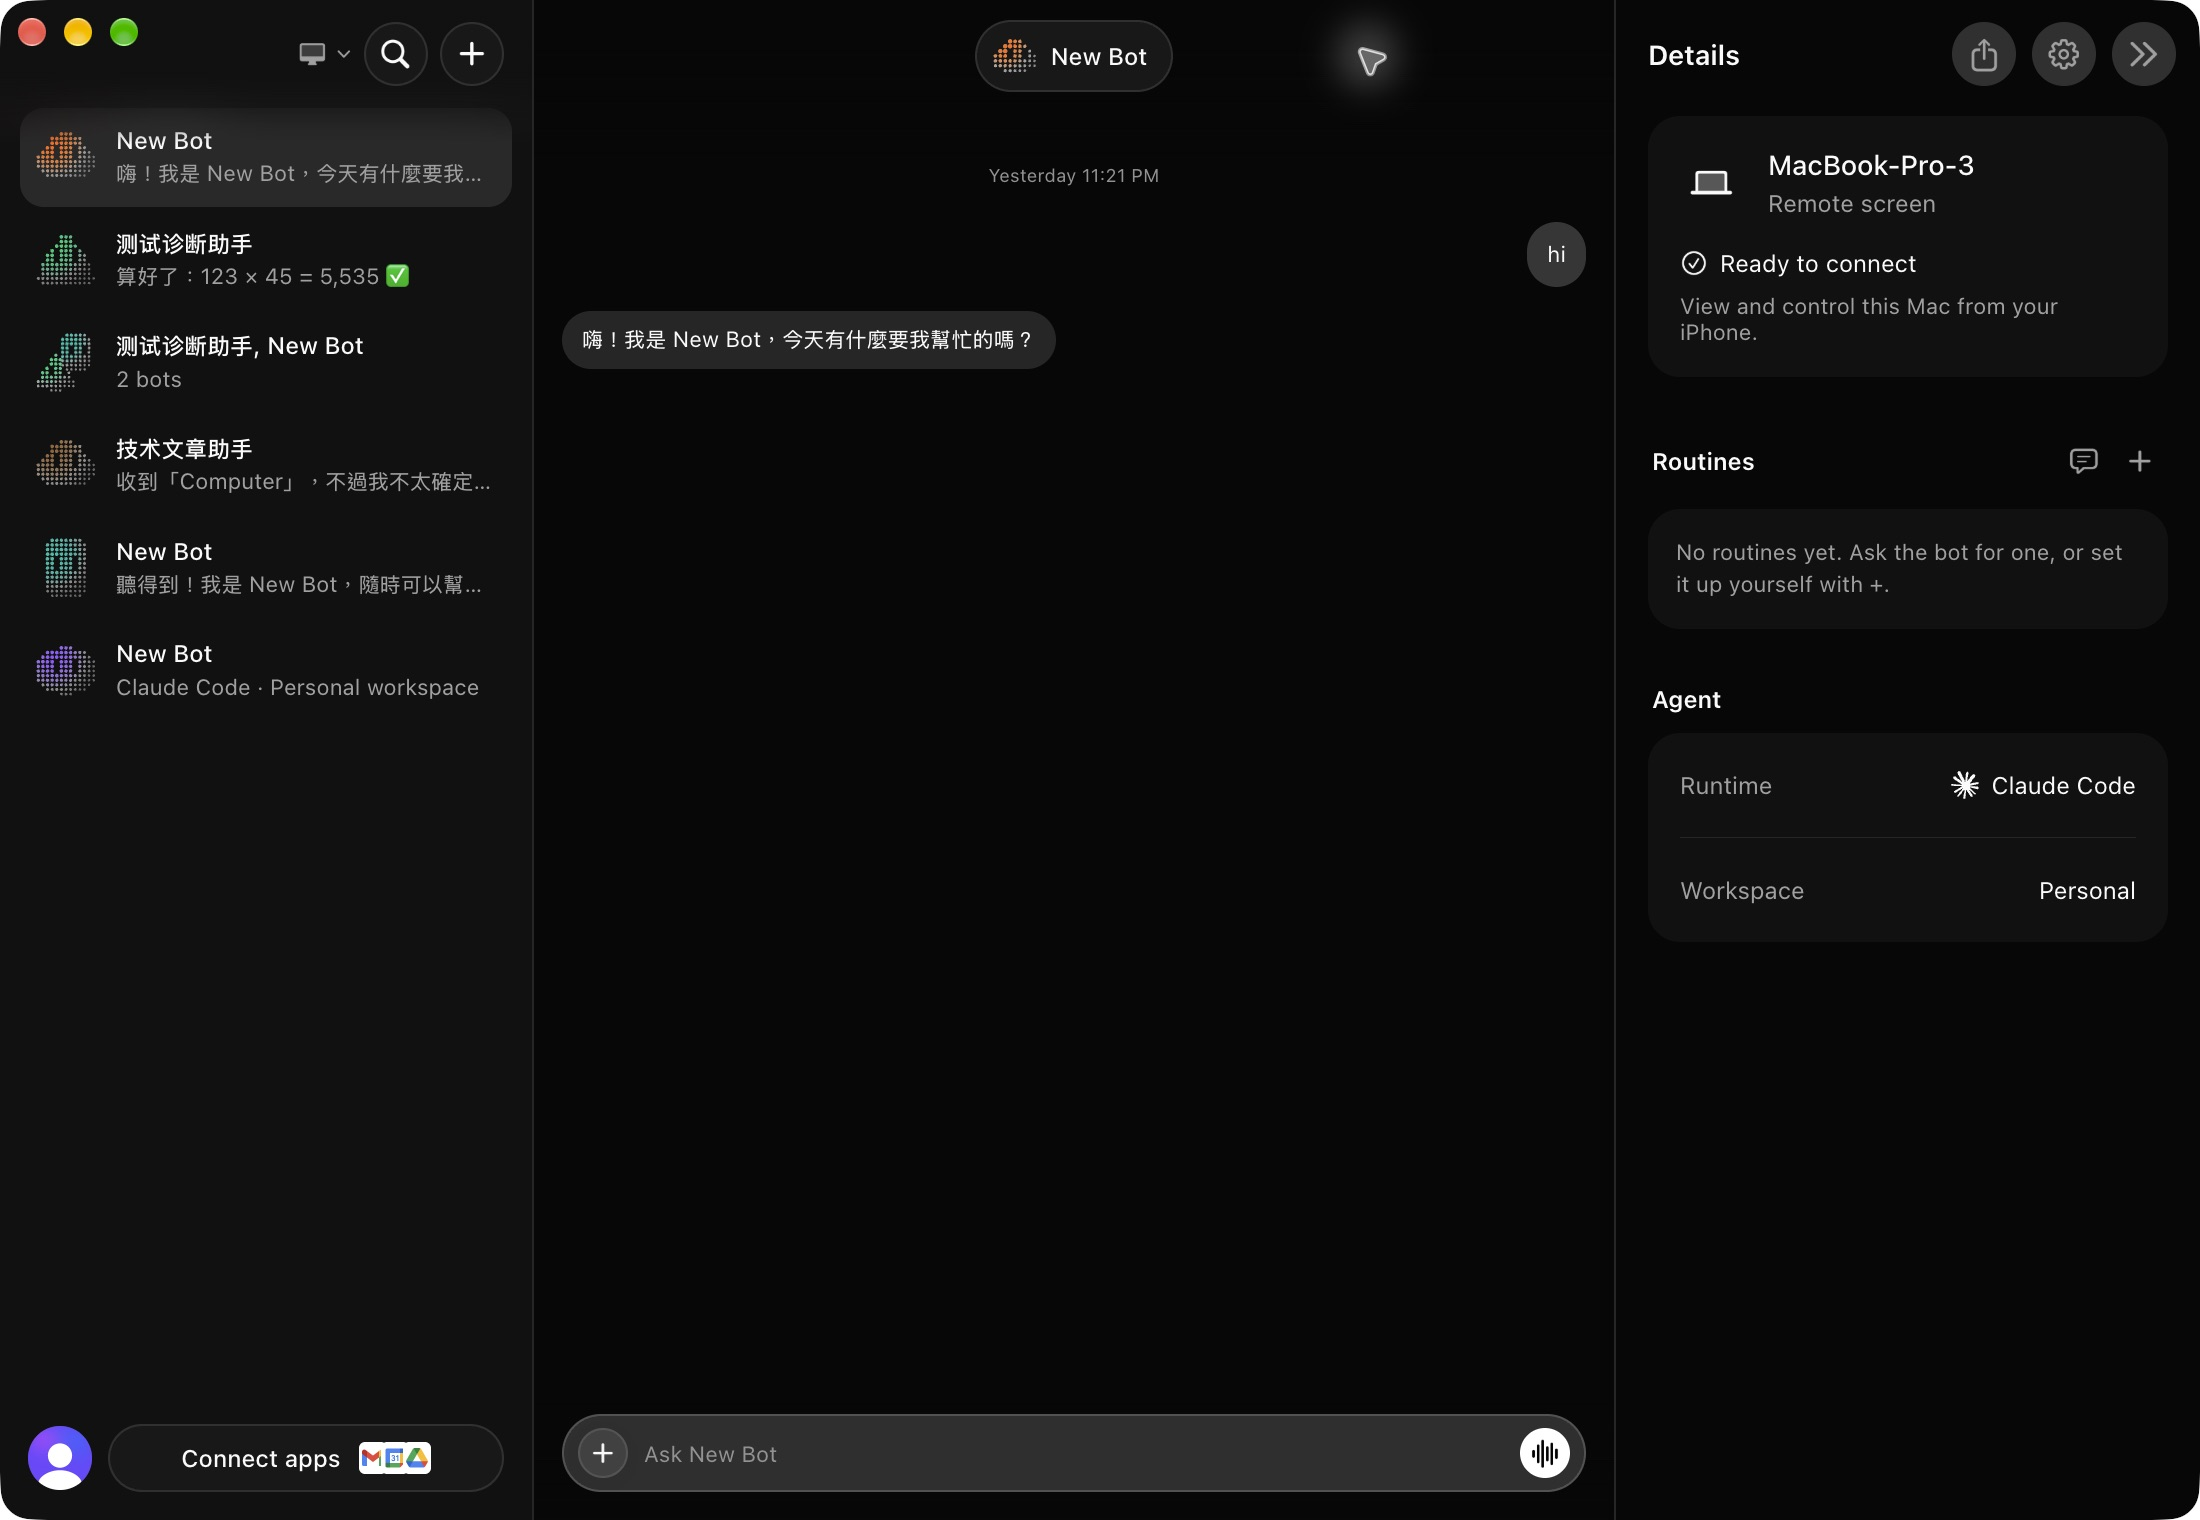
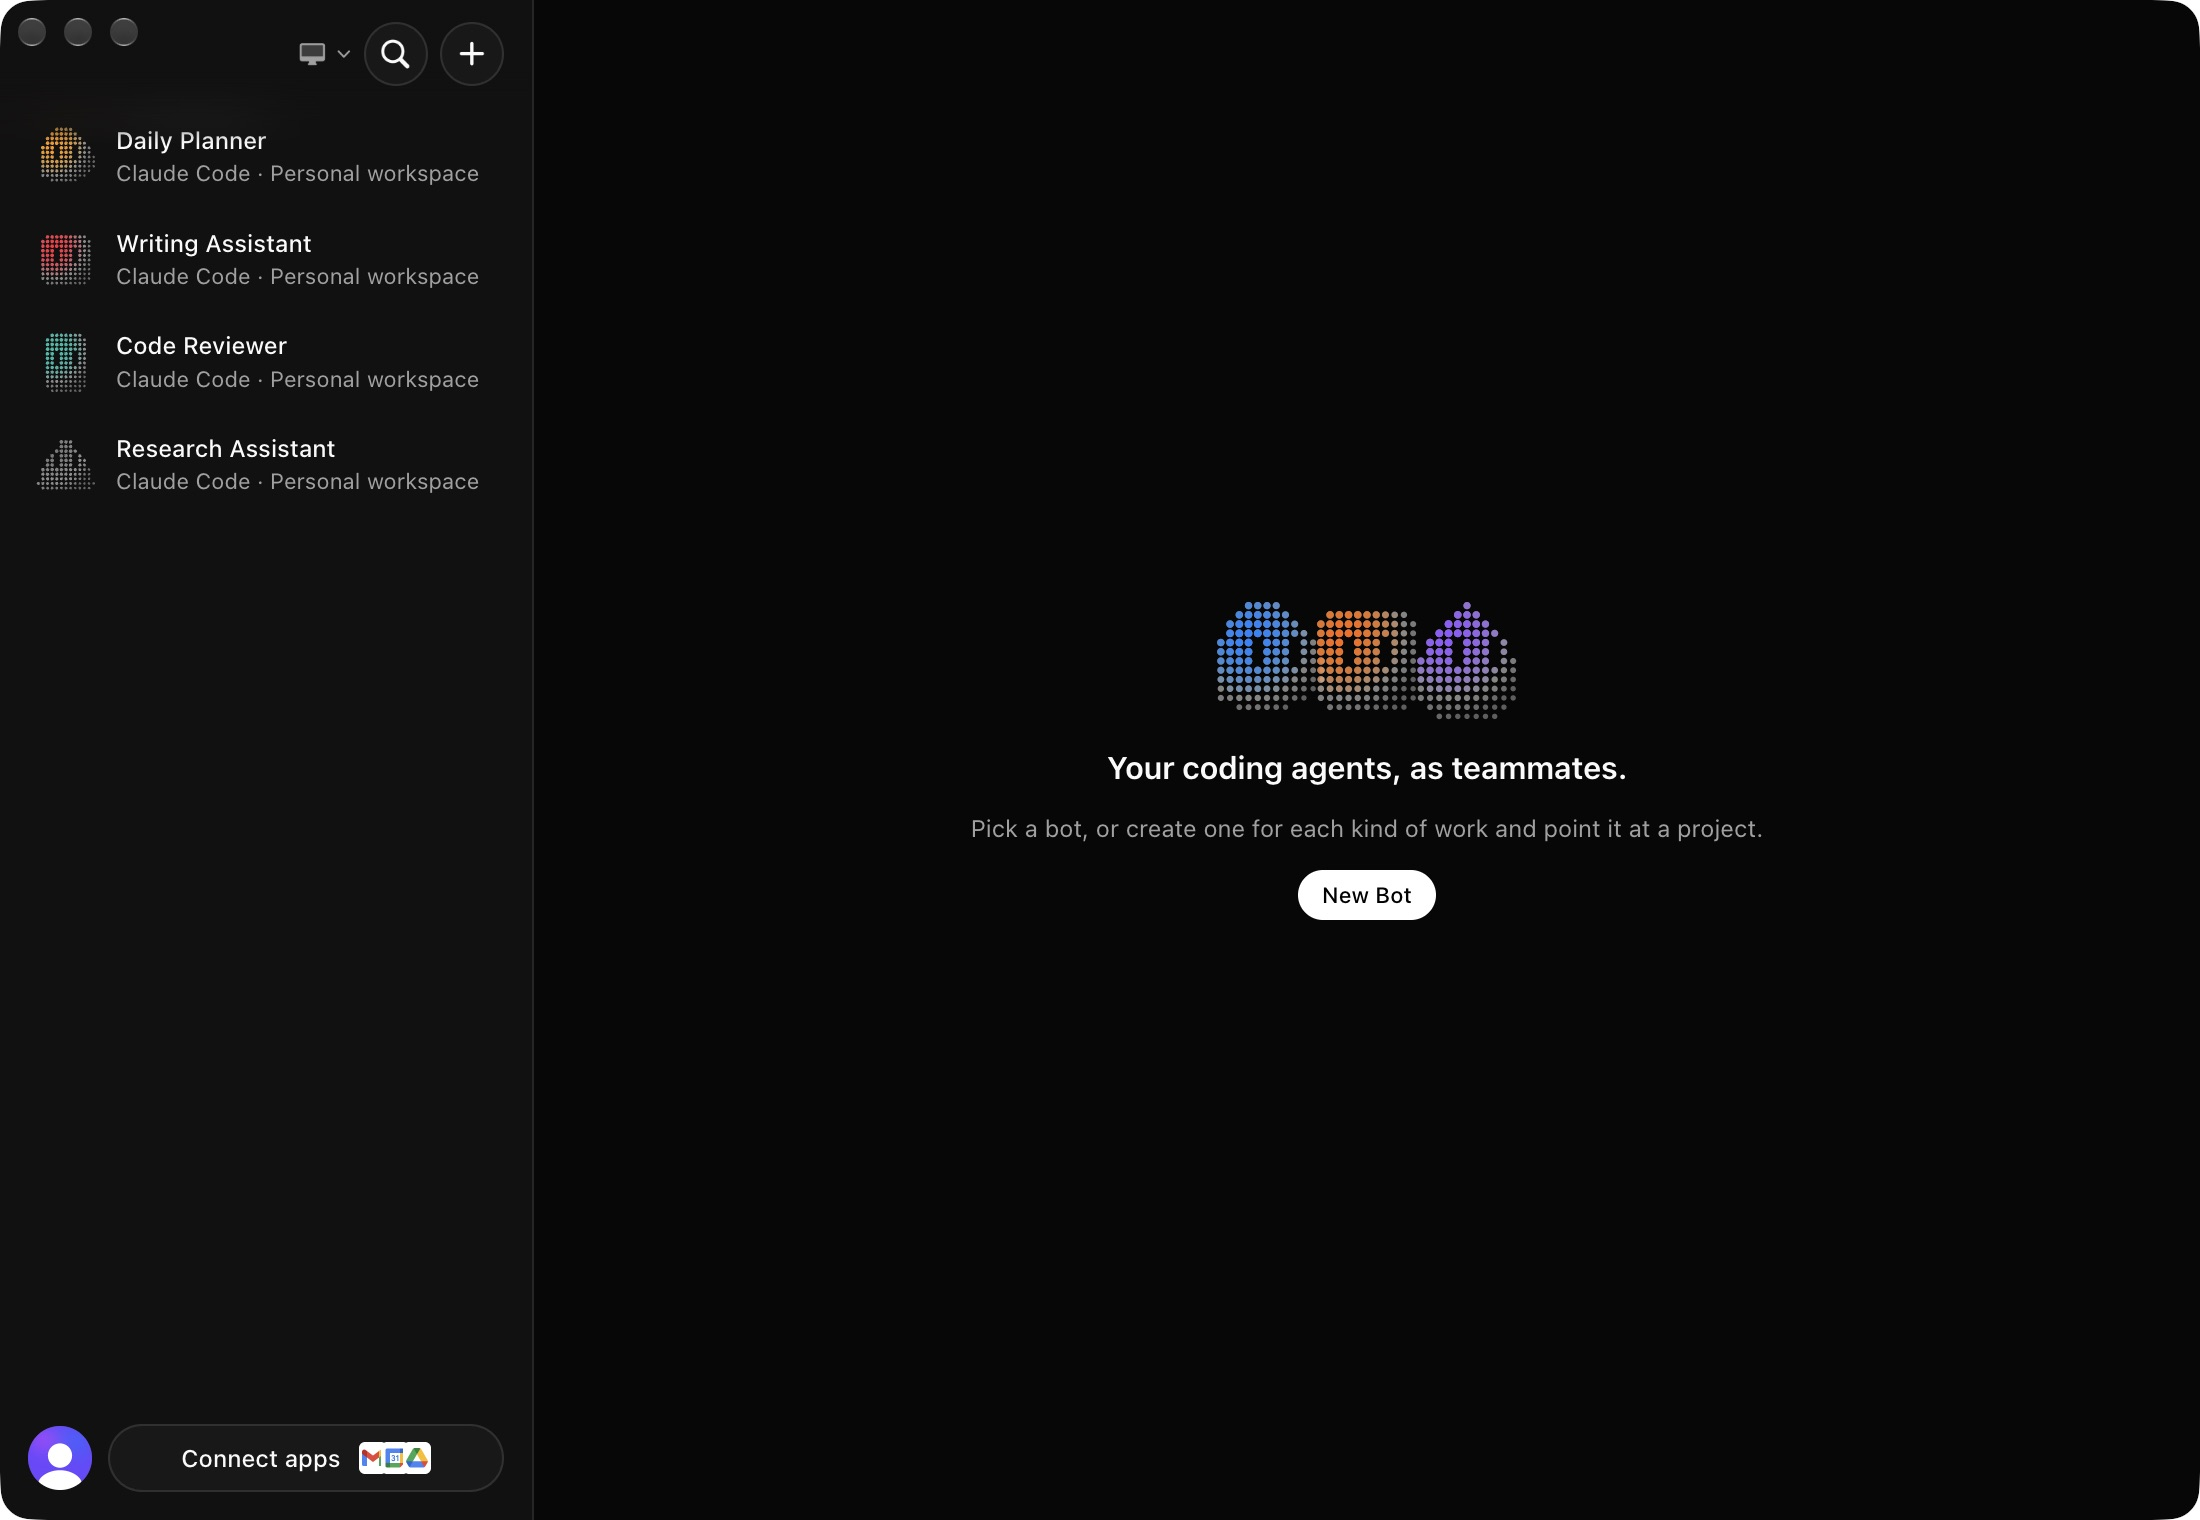
docs: show welcome screen in desktop screenshot

diff --git a/README.md b/README.md
@@ -34,7 +34,7 @@ macOS: Apple Silicon + Intel (DMG) · Windows: x64 installer · Linux: AppImage 
 
 <a href="https://youtu.be/QAhyZWpV70U"><img src="docs/screenshots/launch-film.jpg" width="760" alt="Watch the Codync launch film on YouTube (1:45)"></a>
 
-<img src="docs/screenshots/desktop-macos.png" width="760" alt="Codync desktop app on macOS: bot list, chat and details panel">
+<img src="docs/screenshots/desktop-macos.png" width="760" alt="Codync desktop app on macOS: four bots in the sidebar and the welcome screen with no bot selected">
 
 <a href="https://apps.apple.com/app/codync/id6760984418"><img src="https://developer.apple.com/assets/elements/badges/download-on-the-app-store.svg" height="54" alt="Download on the App Store"></a>
 
